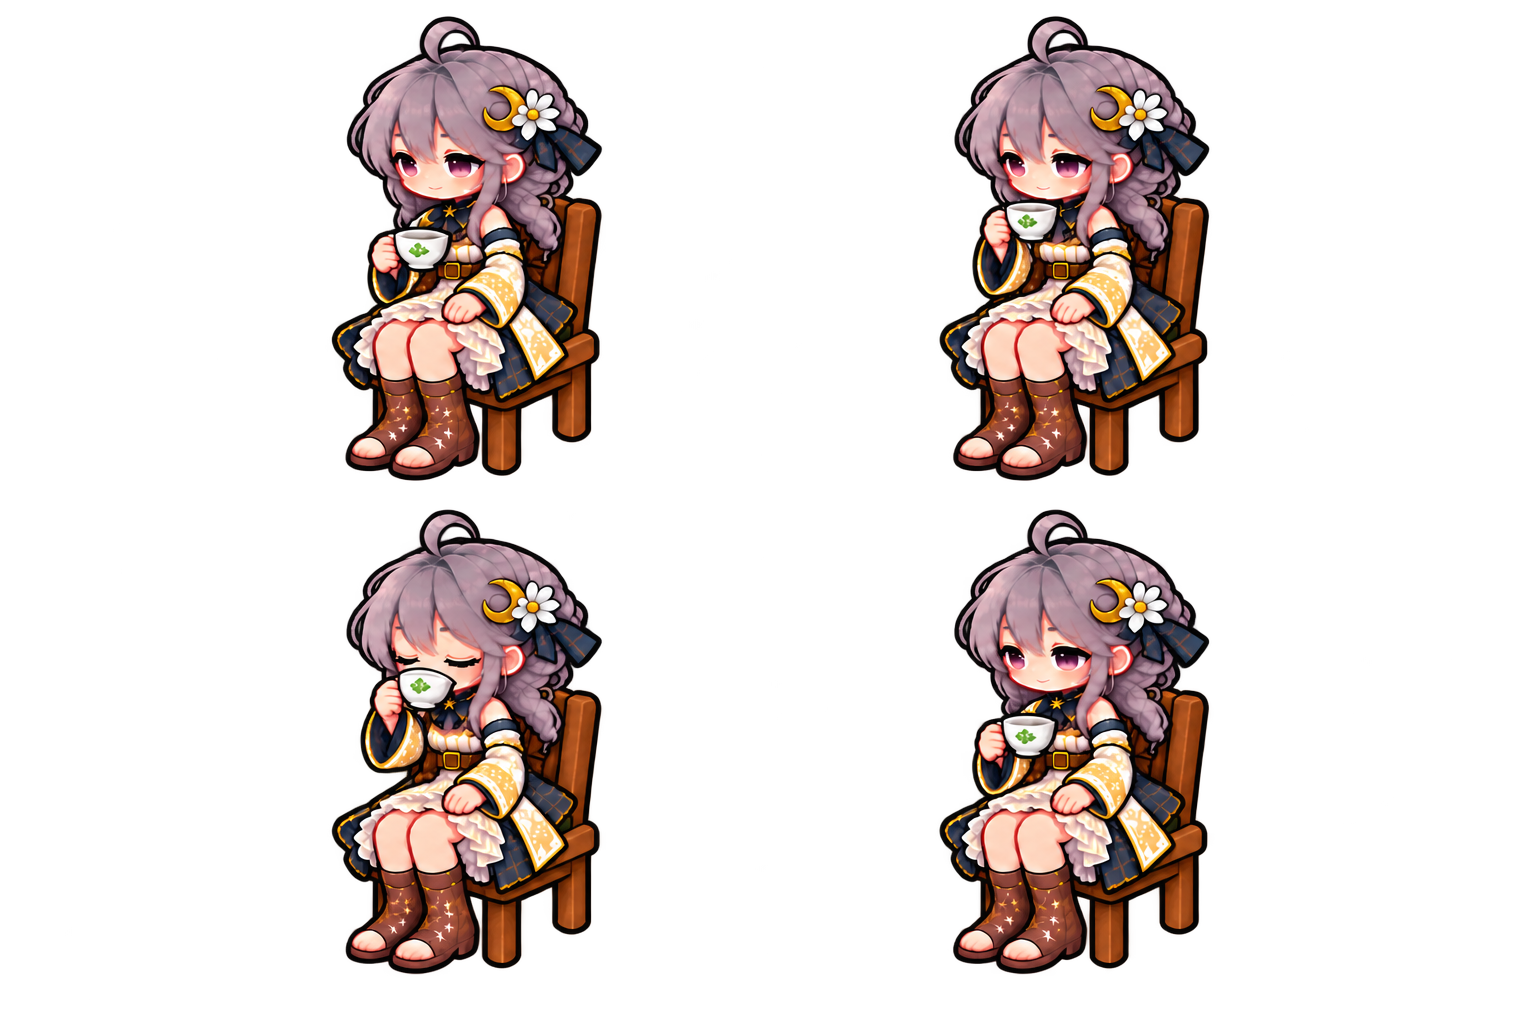
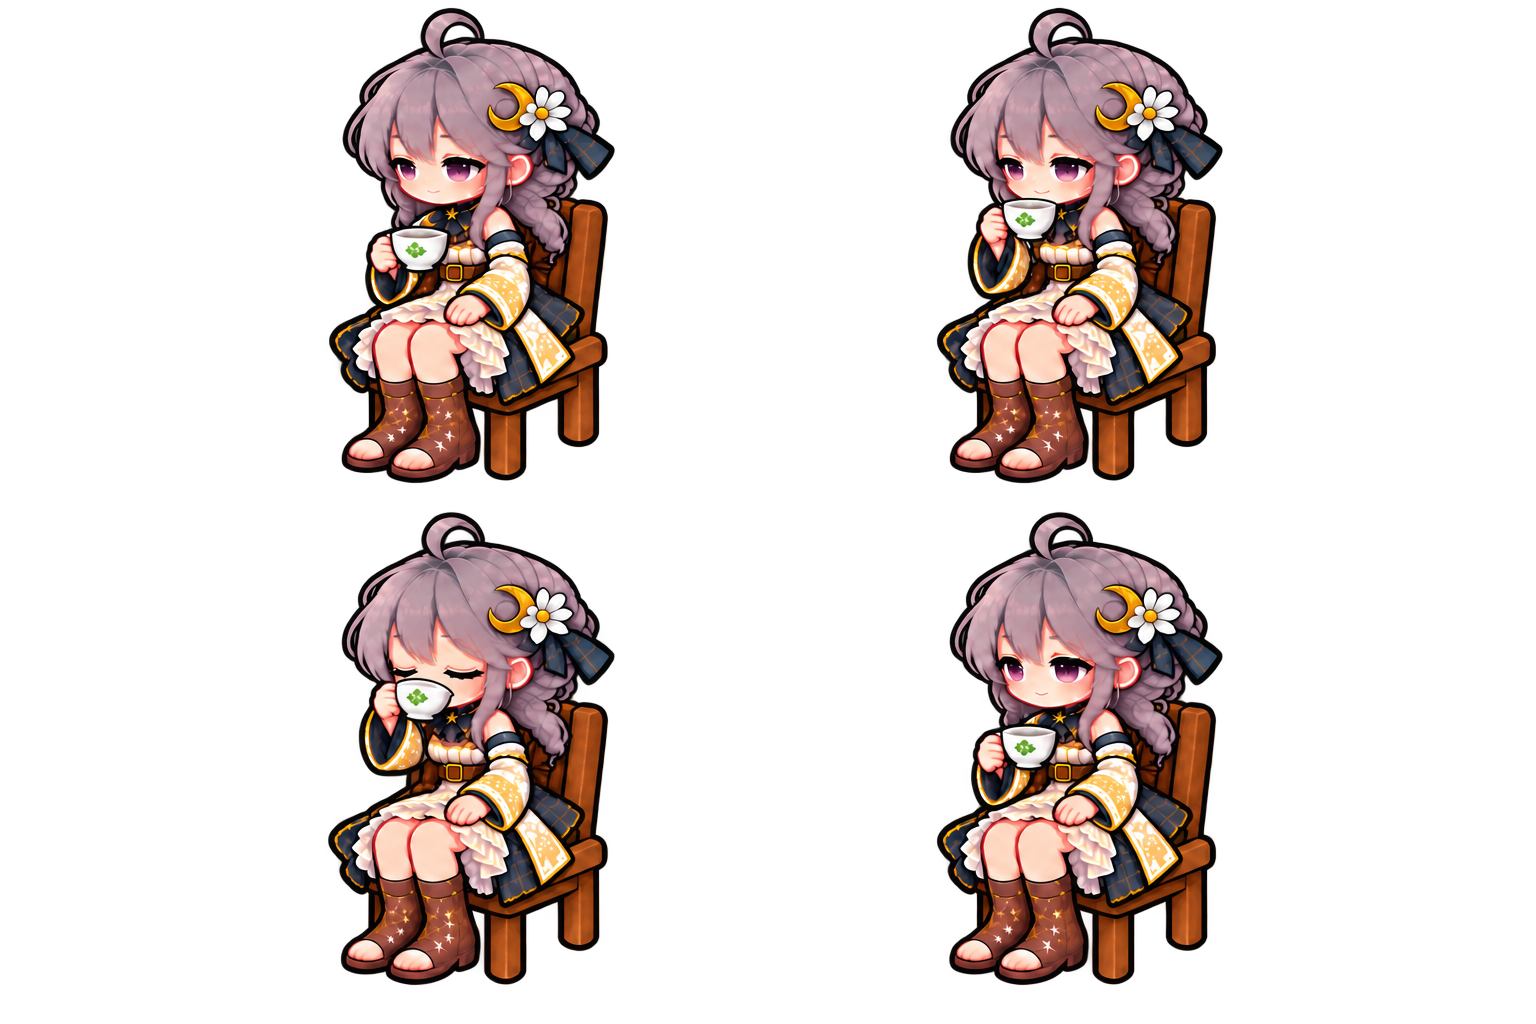
fix: match Mira tea face to approved slender design

diff --git a/docs/art/guild-lab.md b/docs/art/guild-lab.md
@@ -19,6 +19,8 @@
 検査は `tests/home-tea-study.test.mjs` / `tests/home-tea-study.browser.mjs`。
 姿勢一覧と320/390/844/1000pxの画像は `work/pixel-home/tea-study/`。ブラウザー確認とスマホ実機は区別する。
 
+ミラのお茶は、採用済みの顔アップを基準に、頬だけでなくこめかみ・目の幅と間隔・あごを含む顔全体を細め、目と眉の位置を上げた。眠たげなまぶたを残し、左右各4コマの原本と共通の配信アトラスへ反映する。頭全体の縮小や実行時の変形は行わない。[指示全文・参照・採否](../art-generation/home-pixel-tea-mira-face.json)。
+
 ### 配信用素材
 
 - 原本：`assets/source/home-pixel/`。内蔵 image_gen で5人、家具、床の7枚と、歩行専用の5枚、椅子と後ろ姿の5枚、感情マーク・菜園小物の2枚を生成。指示全文は [生成記録](../art-generation/home-pixel.json) 、[歩行の生成記録](../art-generation/home-pixel-walk-v2.json)、[着席・後ろ姿・小物の生成記録](../art-generation/home-pixel-actions.json)。原本は保存し、配信用だけを生成する。
